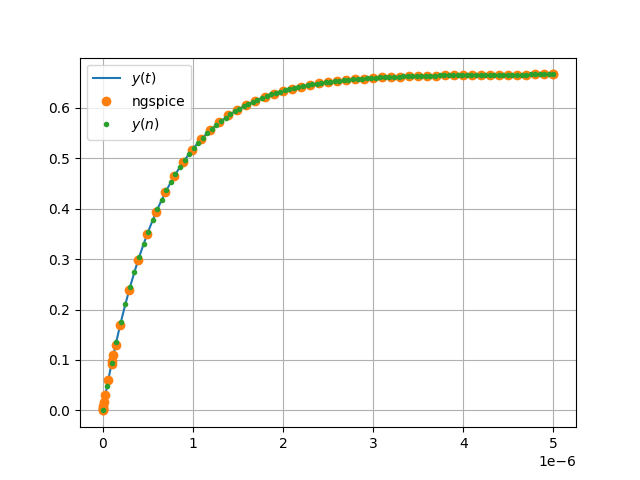
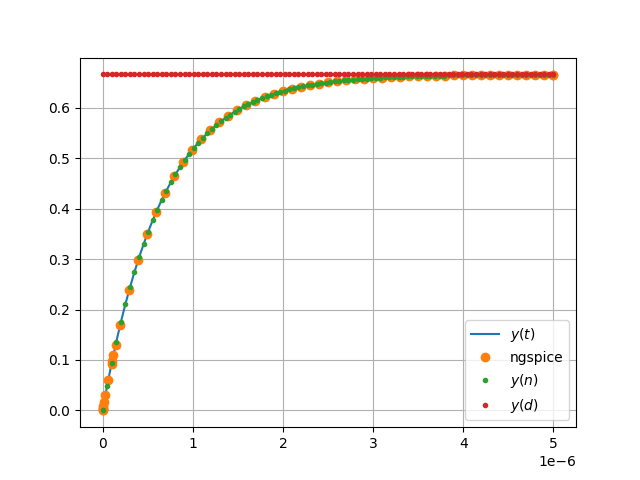
Added differnce equation plot

diff --git a/codes/4.7.py b/codes/4.7.py
@@ -16,20 +16,35 @@ def y_disc(n):
     if n < 0:
         return 0
     else:
-        return 2/3 * (1 - (1 - 7.5e5 * 1e-7)**(n*1e7)/(1 + 7.5e5 * 1e-7)**(n*1e7))
+        return 2/3 * (1 - ((1 - 0.075)/(1 + 0.075))**(n*1e7))
+
+def u(n):
+    if n>0:
+        return 1
+    else:
+        return 0
+def y_diff(n):
+    if n < 0:
+        return 0
+    else:
+        return (y_diff(n-1)*((1e-6 - 0.75)/(1e-6 + 0.75)))+1/(1e-6+1.5)
 
 yt = sp.vectorize(y_cont)
 yn = sp.vectorize(y_disc)
+yd = sp.vectorize(y_diff)
 
-spice = np.loadtxt('/Users/avinashnayak/Desktop/Spice/codes/4.7.dat')
+
+
+spice = np.loadtxt('codes/4.7.dat')
 
 T = np.linspace(0, 5e-6, 100)
 
 plt.plot(T, yt(T), label='$y(t)$')
 plt.plot(spice[:,0], spice[:,1], 'o', label='ngspice')
 plt.plot(T, yn(T), '.', label='$y(n)$')
+plt.plot(T, yd(T), '.', label='$y(d)$')
 plt.grid()
 plt.legend()
-plt.savefig('./figs/4.7.png')
-#plt.show()
+# plt.savefig('./figs/4.7.png')
+plt.show()
 #subprocess.run(shlex.split("termux-open ../figs/4.3.png"))

diff --git a/test.py b/test.py
@@ -1,0 +1,13 @@
+import matplotlib as mpl
+import matplotlib.pyplot as plt
+import scipy as sp
+diff=[]
+def y_diff(n):
+    if n < 0:
+        return 0
+    else:
+        changes=(y_diff(n-1)*((1e-6 - 0.75)/(1e-6 + 0.75)))+1/(1e-6+1.5)
+        diff.append(changes)
+        return changes
+y_diff(10)
+print(diff)
